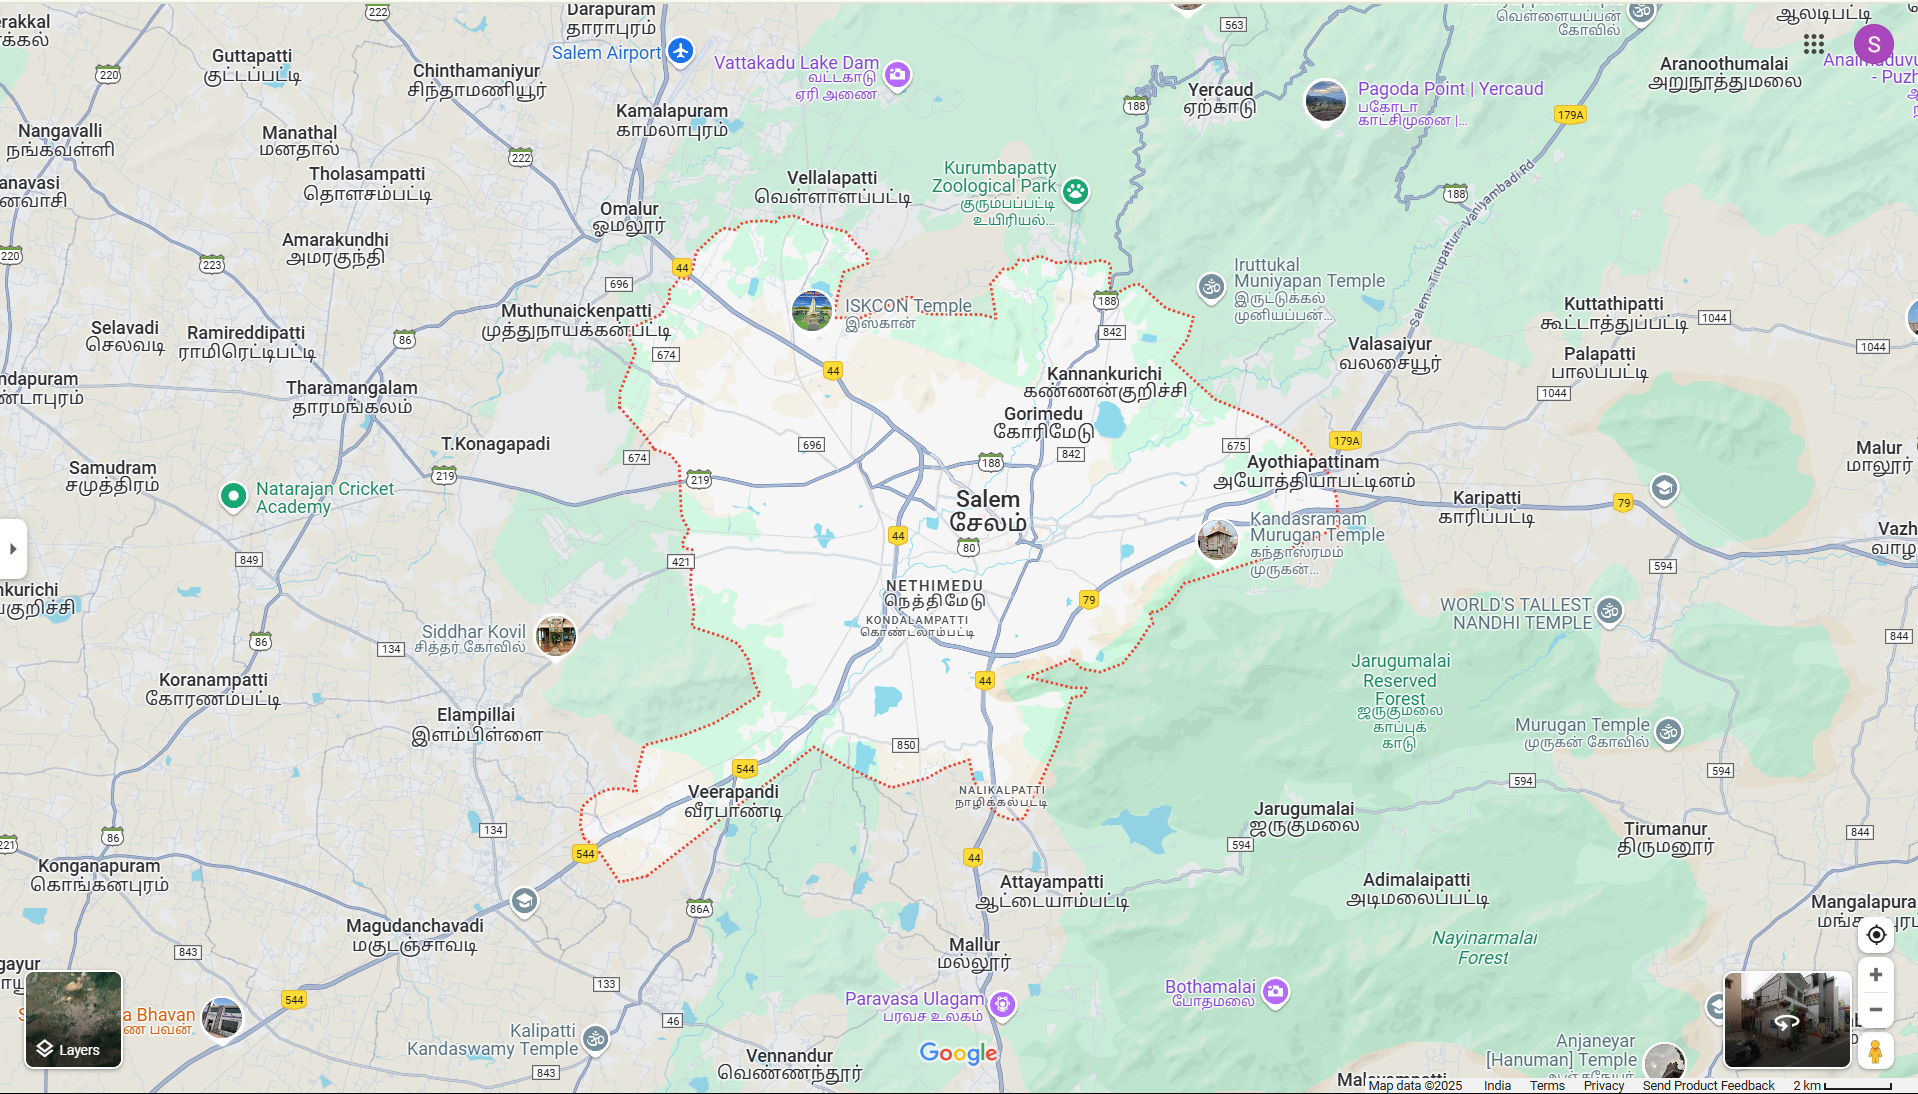
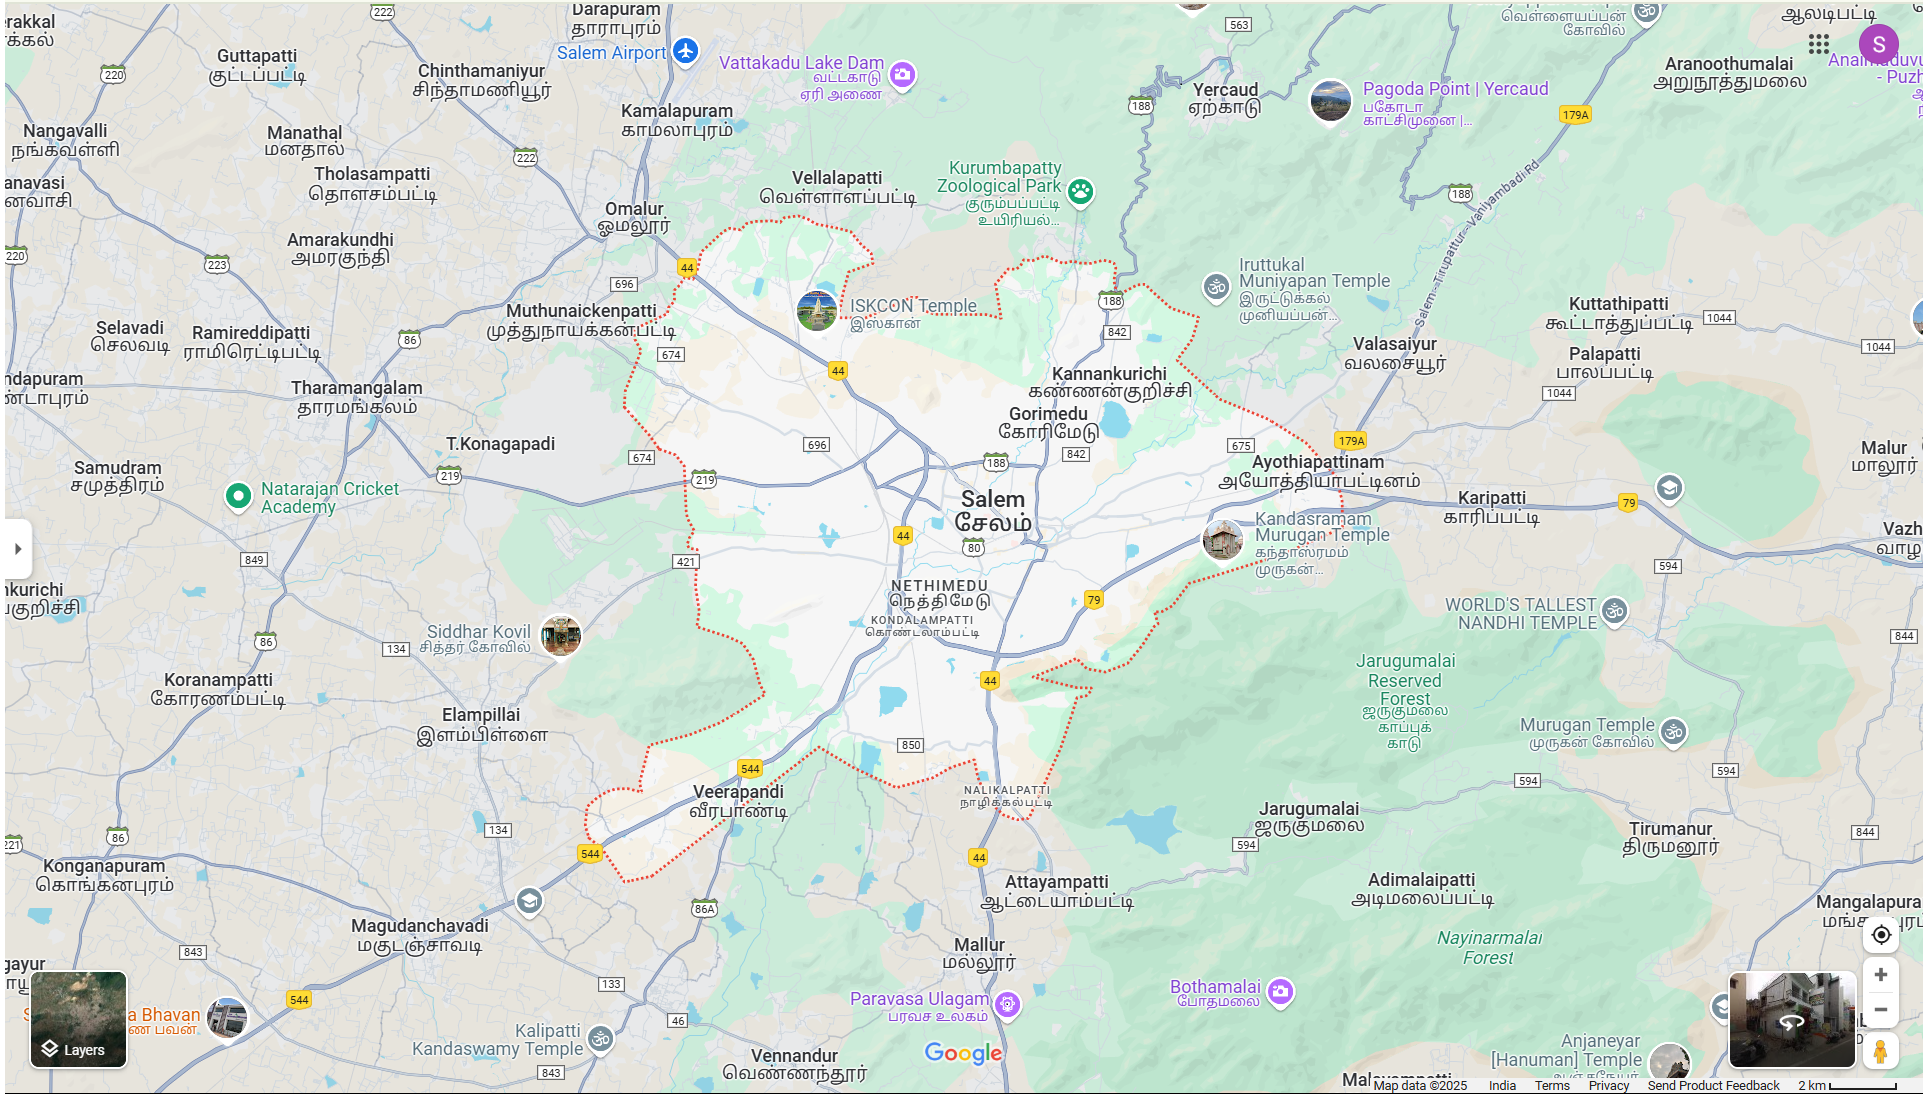
Success

diff --git a/README.md b/README.md
@@ -25,10 +25,186 @@ Write HTML programs for all the regions identified.
 Execute the programs and publish them.
 
 ## CODE
+Map.html
+<html>
+<head>
+<title>My city</title>
+</head>
+<body>
+<h1 align="center">
+<font color="red"><b>Salem</b></font>
+</h1>
+<h3 align="center">
+<font color= "blue"><b>Santhosh Kumar P(24900711)</b></font>
+</h3>
+<center>
+<img src="map.png" usemap="#myCity" height="610" width="1450">
+</center>
+<map name="myCity">
+<area shape="rect" coords="536,35,712,82" href="salem airport.html" title="SALEM AIRPORT">
+<area shape="rect" coords="198,469,421,530" href="natarajan.html" title="NATARAJAN CRICKET ACADEMY">
+<area shape="rect" coords="1165,76,1281,127" href="yercaud.html" title="YERCAUD">
+<area shape="circle" coords="822,980,1049,1023" href="paravasa ulagam.html" title="PARAVASA ULAGAM">
+<area shape="circle" coords="1150,949,1311,1012" href="bothamalai.html" title="BOTHAMALAI">
+</map>
+
+</body>
+</htm1>
+
+Salem airport.html
+<!DOCTYPE html>
+<html lang="en">
+<head>
+    <meta charset="UTF-8">
+    <meta name="viewport" content="width=device-width, initial-scale=1.0">
+    <title>MY AREA</title>
+</head>
+<body>
+    <h1 align="center">
+        <font color="red"><b>SALEM</b></font>
+    </h1>
+    <h3 align="center">
+        <b>SALEM AIRPORT</b>
+    </h3>
+    <hr size="3" color="red">
+    <br>
+    <p align="justify" style="word-spacing: 5px;padding: 5px;line-height: 30px;">
+        <font face="Georgia" size="3">
+            Salem Airport (IATA: SXV, ICAO: VOSM) is a domestic airport located in Kamalapuram, approximately 15 km northwest of Salem city in Tamil Nadu, India. It serves the Salem metropolitan area and surrounding districts, including Dharmapuri, Krishnagiri, and Namakkal.
+            The airport features a single 1,806-meter asphalt runway (04/22) and a terminal building with a capacity to handle 100 passengers. It is equipped with navigational aids such as VHF radio, Precision Approach Path Indicators (PAPI), and a Non-Directional Beacon (NDB).
+        </font>
+    </p>
+</body>
+</html>
+
+Natrajan.html
+
+<!DOCTYPE html>
+<html lang="en">
+<head>
+    <meta charset="UTF-8">
+    <meta name="viewport" content="width=device-width, initial-scale=1.0">
+    <title>MY AREA</title>
+</head>
+<body>
+    <h1 align="center">
+        <font color="red"><b>SALEM</b></font>
+    </h1>
+    <h3 align="center">
+        <b>NATARAJAN CRICKET ACADEMY</b>
+    </h3>
+    <hr size="3" color="red">
+    <br>
+    <p align="justify" style="word-spacing: 5px;padding: 5px;line-height: 30px;">
+        <font face="Georgia" size="3">
+            Natarajan Cricket Academy, established by Indian cricketer Thangarasu Natarajan, is located in Chinnappampatti village near Sankagiri, Salem district. The academy aims to identify and nurture young cricketing talent from rural areas, providing them with professional coaching and facilities. The academy's ground features four pitches—two turf, one concrete, and one matting—along with a gym, canteen, and a mini gallery with seating for 100 spectators. Notable personalities, including cricketers Dinesh Karthik, Varun Chakravarthy, and Washington Sundar, have supported the academy's initiatives. The academy operates as a commercial venture, covering expenses for ground maintenance and staff salaries, while offering free training to existing students and nominal fees for new enrollees.
+        </font>
+    </p>
+</body>
+</html>
+
+
+yercaud.html
+
+<!DOCTYPE html>
+<html lang="en">
+<head>
+    <meta charset="UTF-8">
+    <meta name="viewport" content="width=device-width, initial-scale=1.0">
+    <title>MY AREA</title>
+</head>
+<body>
+    <h1 align="center">
+        <font color="red"><b>SALEM</b></font>
+    </h1>
+    <h3 align="center">
+        <b>YERCAUD</b>
+    </h3>
+    <hr size="3" color="red">
+    <br>
+    <p align="justify" style="word-spacing: 5px;padding: 5px;line-height: 30px;">
+        <font face="Georgia" size="3">
+            Yercaud, nestled in the Shevaroy Hills of Tamil Nadu, is a serene hill station known for its lush coffee plantations, citrus orchards, and the picturesque Yercaud Lake. Often referred to as the "Poor Man’s Ooty," it offers a tranquil retreat with attractions like the Shevaroy Temple, Pagoda Point, and Kiliyur Falls. 
+Tamil Nadu Tourism.The region enjoys a pleasant climate year-round, with temperatures rarely exceeding 29°C, making it an ideal destination from October to June. 
+Indian Holiday.
+        </font>
+    </p>
+</body>
+</html>
+
+Paravasa Ulagam.html
+
+<!DOCTYPE html>
+<html lang="en">
+<head>
+    <meta charset="UTF-8">
+    <meta name="viewport" content="width=device-width, initial-scale=1.0">
+    <title>MY AREA</title>
+</head>
+<body>
+    <h1 align="center">
+        <font color="red"><b>SALEM</b></font>
+    </h1>
+    <h3 align="center">
+        <b>PARAVASA ULAGAM</b>
+    </h3>
+    <hr size="3" color="red">
+    <br>
+    <p align="justify" style="word-spacing: 5px;padding: 5px;line-height: 30px;">
+        <font face="Georgia" size="3">
+            Paravasa Ulagam is a popular water and amusement park located in Mallur, approximately 16 km from Salem, Tamil Nadu. Nestled amidst lush greenery and hilly terrain, it offers over 70 rides, including water slides, wave pools, rain dance, lazy river, and dry rides like bungee jumping, mini train, and flying saucer .
+            The park operates daily from 10 AM to 6 PM, with entry fees of ₹750 for adults and ₹600 for children (90–130 cm in height). Additional amenities include a food court, changing rooms, lockers, and ample parking space .Paravasa Ulagam is an ideal destination for families and groups seeking a fun-filled day amidst nature.
+        </font>
+    </p>
+</body>
+</html>
+
+Bothamalai.html
+
+<!DOCTYPE html>
+<html lang="en">
+<head>
+    <meta charset="UTF-8">
+    <meta name="viewport" content="width=device-width, initial-scale=1.0">
+    <title>MY AREA</title>
+</head>
+<body>
+    <h1 align="center">
+        <font color="red"><b>SALEM</b></font>
+    </h1>
+    <h3 align="center">
+        <b>BOTHAMALAI</b>
+    </h3>
+    <hr size="3" color="red">
+    <br>
+    <p align="justify" style="word-spacing: 5px;padding: 5px;line-height: 30px;">
+        <font face="Georgia" size="3">
+            Bodhamalai, also known as Bodamalai, is a picturesque hill located in the Eastern Ghats of Tamil Nadu, straddling the Salem and Namakkal districts. The hill rises to an elevation of approximately 1,100 meters and extends over 180 square kilometers, with its highest point reaching 1,200 meters above sea level.It serves as a biodiversity hotspot, featuring dense forests and a variety of flora and fauna. The hill is accessible via off-trail trekking from Salem, offering a challenging yet rewarding experience for hikers .
+            Notable villages on the hill include Keelur, Melur, and Gedamalai, each contributing to the region's cultural and ecological richness.
+        </font>
+    </p>
+</body>
+</html>
 
 
 ## OUTPUT
 
+[text](<app4/static/salem airport.html>)
+[text](app4/static/natarajan.html)
+[text](app4/static/yercaud.html)
+[text](<app4/static/paravasa ulagam.html>)
+[text](app4/static/bothamalai.html)
+
+
+
+
+
+## OUTPUT
+[text](<project4/app4/static/salem airport.html>)
+[text](project4/app4/static/natarajan.html)
+[text](project4/app4/static/yercaud.html)
+[text](<project4/app4/static/paravasa ulagam.html>)
+[text](project4/app4/static/bothamalai.html)
 
 
 
